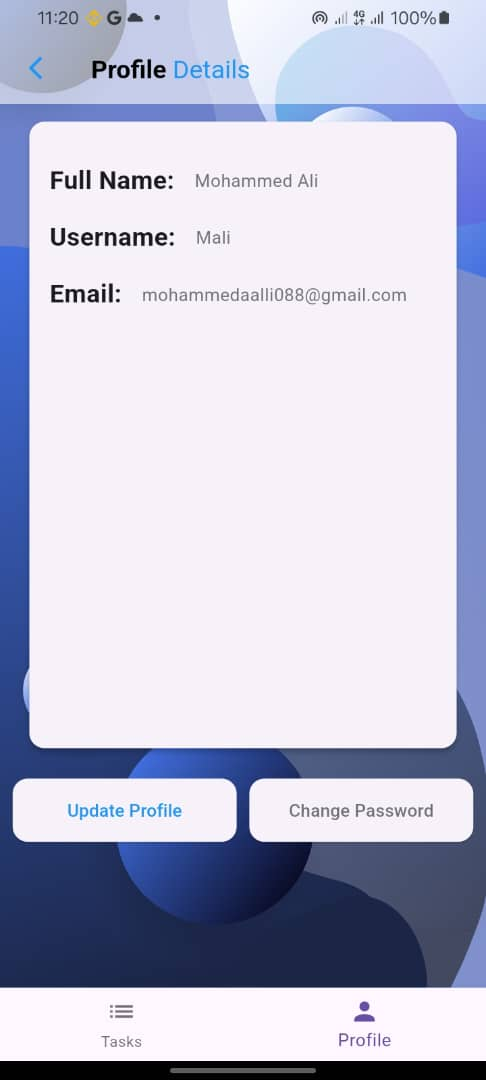
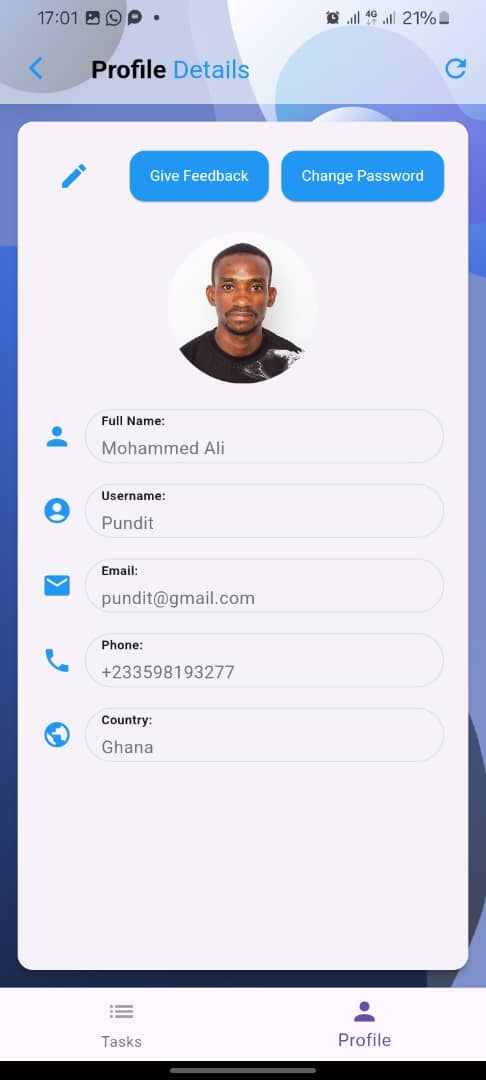
doc: readme updated

diff --git a/README.md b/README.md
@@ -73,6 +73,7 @@ A simple Todo application built with Flutter that integrates with a Django backe
 - **Auth URLs**:
   - `POST /auth/register/`: Register a new user
   - `POST /auth/verify-email/`: Verify user email
+  - `POST /auth/resend-v-email/`
   - `POST /auth/login/`: User login
   - `POST /auth/change-password/`: Change user password
   - `POST /auth/forgot-password/`: Send password reset email
@@ -88,6 +89,9 @@ A simple Todo application built with Flutter that integrates with a Django backe
   - `GET /todo/tasks/{id}/`: Retrieve a task
   - `PUT /api/tasks/{id}/`: Update a task
   - `DELETE /todo/tasks/{id}/delete`: Delete a task
+
+  - **Feedback Endpoint**:
+  - `POST /todo/send-feedback/`
 
 ## Architectural Considerations
 
@@ -147,10 +151,10 @@ A simple Todo application built with Flutter that integrates with a Django backe
 ![welcome Screen](ui/welcome.jpg)
 
 #### logIn Screen
-![login Screen](ui/signIn.jpg)
+![login Screen](ui/login.jpg)
 
 #### SignUp Screen
-![signUp Screen](ui/signUp.jpg)
+![signUp Screen](ui/sign-up.jpg)
 
 #### Forgot-Password Screen
 ![forgot-password Screen](ui/forgot-password.jpg)
@@ -162,16 +166,23 @@ A simple Todo application built with Flutter that integrates with a Django backe
 ![profile Screen](ui/profile.jpg)
 
 #### Profile-edit Screen
-![profile-edit Screen](ui/profile-update.jpg)
+![profile-edit Screen](ui/edit-profile.jpg)
+
+#### Feedback Screen
+![Feedback Screen](ui/feedback.jpg)
 
 #### Change-Password Screen
 ![reset-password Screen](ui/change-password.jpg)
 
 #### Todo-List Screen
-![Todo-list Screen](ui/list-task.jpg)
+![Todo-list Screen](ui/todo-list.jpg)
+
+#### Create-Todo Screen
+![create-todo Screen](ui/create-todo.jpg)
 
 #### Todo-Detail Screen
-![todo-detail Screen](ui/task-detail.jpg)
+![todo-detail Screen](ui/todo-details.jpg)
+
 
 #### Update-Todo Screen
 ![update-task Screen](ui/update-task.jpg)
